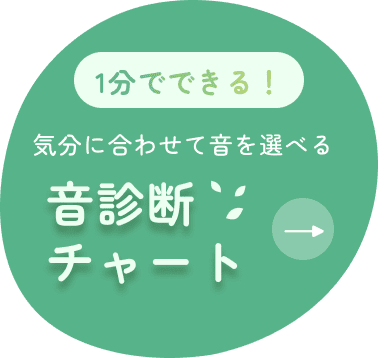
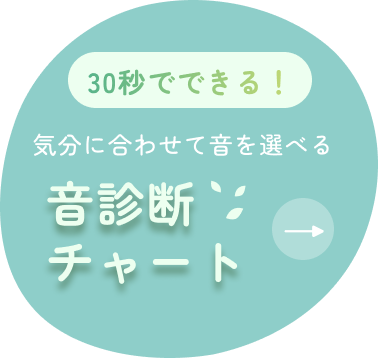
変更願います

diff --git a/index.html b/index.html
@@ -834,11 +834,10 @@
   .pop-banner__link { display: block; line-height: 0; }
   .pop-banner__link img {
     width: 100%; height: auto; display: block;
-    filter: drop-shadow(0 10px 22px rgba(58,122,54,0.26));
     transition: filter .25s ease;
   }
   @media (hover: hover) {
-    .pop-banner__link:hover img { filter: drop-shadow(0 10px 22px rgba(58,122,54,0.26)) brightness(1.09) saturate(1.04); }
+    .pop-banner__link:hover img { filter: brightness(1.09) saturate(1.04); }
   }
   .pop-banner__close {
     position: absolute; top: 8px; right: 10px; z-index: 1;